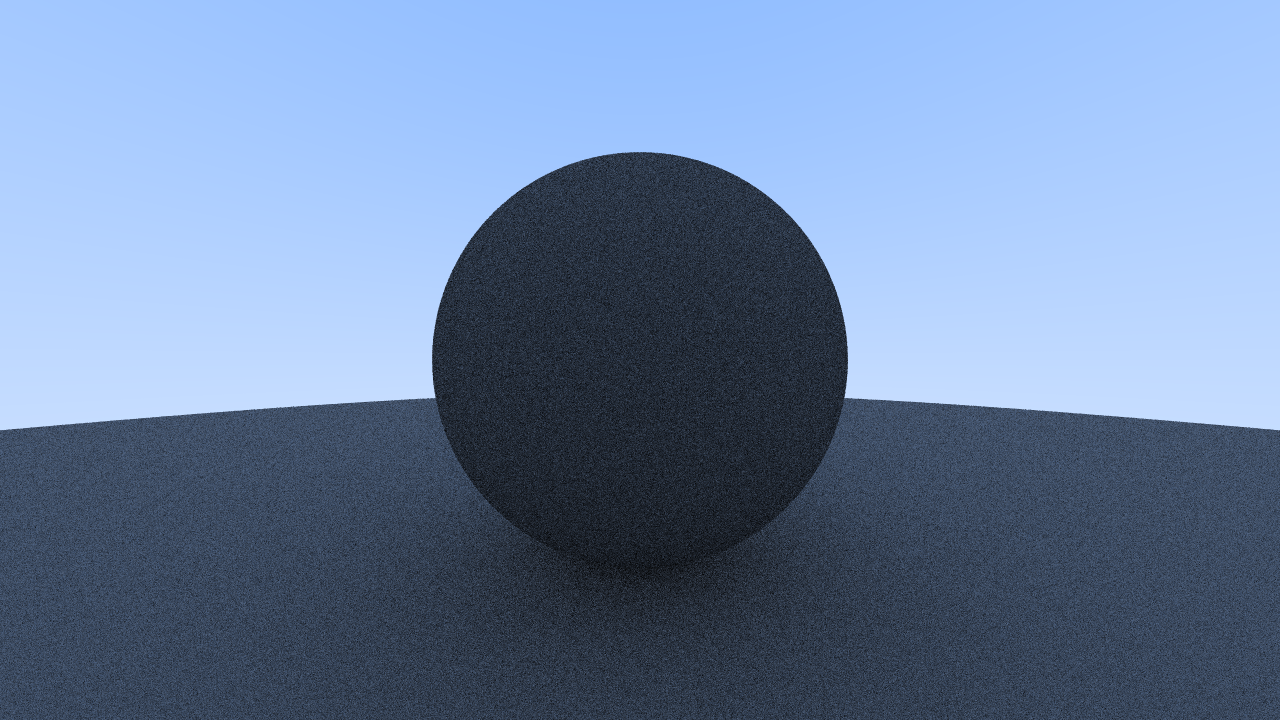
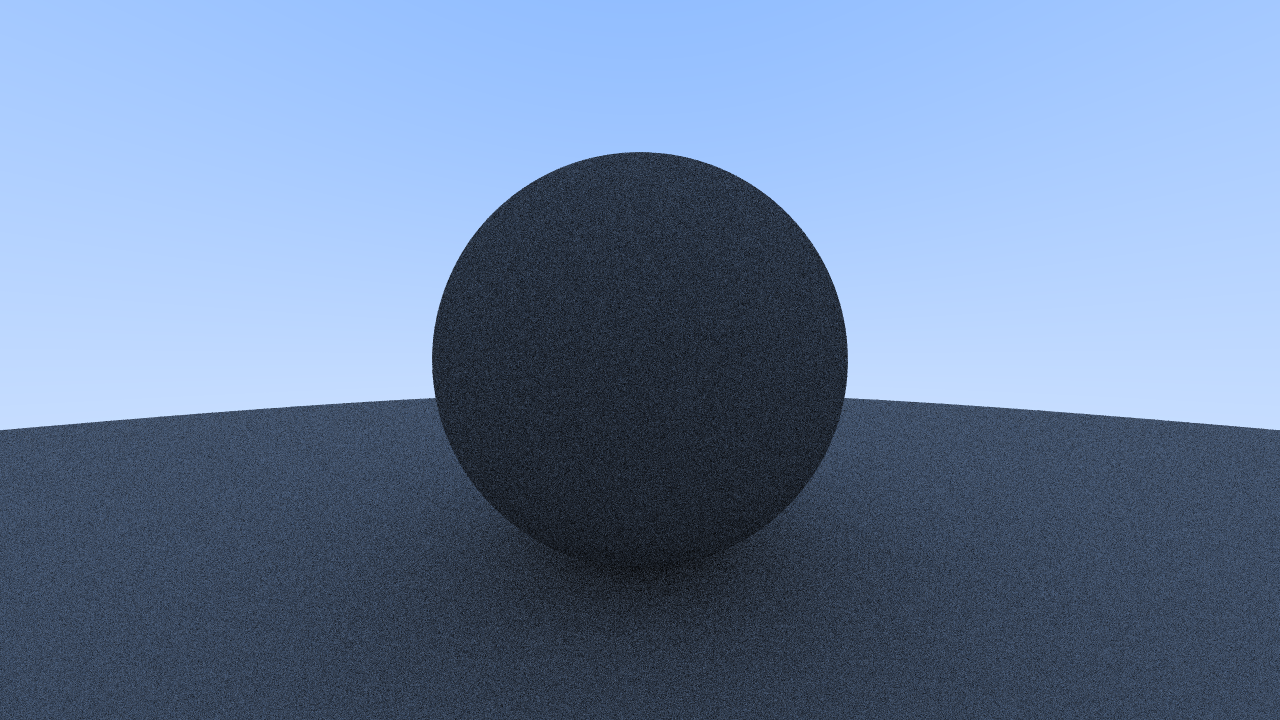
Add max depth to ray bounce count. Add render time benchmark

Changed region(s): [[0.0, 0.2139, 1.0, 1.0]]

diff --git a/raytracer-weekend/camera.h b/raytracer-weekend/camera.h
@@ -14,7 +14,8 @@ class camera {
 public:
 	double aspect_ratio = 1.0;
 	int image_width = 100;
-	int samples_per_pixel = 16;
+	int samples_per_pixel = 10;
+	int max_depth = 10;
 
 
 	void render(const hittable& world){
@@ -29,7 +30,7 @@ public:
 				color pixel_color(0, 0, 0);
 				for (int sample = 0; sample < samples_per_pixel; sample++) {
 					ray r = get_ray(i, j);
-					pixel_color += ray_color(r, world);
+					pixel_color += ray_color(r, max_depth, world);
 				}
 				int index = (j * image_width + i) * channels;
 
@@ -105,13 +106,16 @@ private:
 		return vec3(random_double() - 0.5, random_double() - 0.5, 0);
 	}
 
-	color ray_color(const ray& r, const hittable& world) const {
+	color ray_color(const ray& r, int depth,const hittable& world) const {
+		if (depth <= 0) return color(0, 0, 0);
+
 		hit_record rec;
+
 		if (world.hit(r, interval(0, infinity), rec)) {
 			//return 0.5 * (rec.normal + color(1, 1, 1)); return color depnding on normal
 			vec3 direction = random_on_hemisphere(rec.normal);
 			// Recursive if random hit ray keeps hitting another object
-			return 0.5 * ray_color(ray(rec.p, direction), world);
+			return 0.5 * ray_color(ray(rec.p, direction), depth - 1, world);
 		}
 
 		// Background color gradient

diff --git a/raytracer-weekend/raytracer-weekend.cpp b/raytracer-weekend/raytracer-weekend.cpp
@@ -9,6 +9,8 @@
 #define STB_IMAGE_WRITE_IMPLEMENTATION
 #include "stb_image_write.h"
 
+#include <chrono>
+
 
 int main()
 {
@@ -21,8 +23,19 @@ int main()
 
 	cam.aspect_ratio = 16.0 / 9.0;
 	cam.image_width = 1280;
+	cam.samples_per_pixel = 16;
+	cam.max_depth = 8;
+
+	auto start = std::chrono::high_resolution_clock::now();
+
 
 	cam.render(world);
+
+	auto end = std::chrono::high_resolution_clock::now();
+
+	double seconds = std::chrono::duration<double>(end - start).count();
+
+	std::cout << std::fixed << std::setprecision(3) << "Render time: " << seconds << " seconds" << std::endl;
 
 	return 0;
 }
